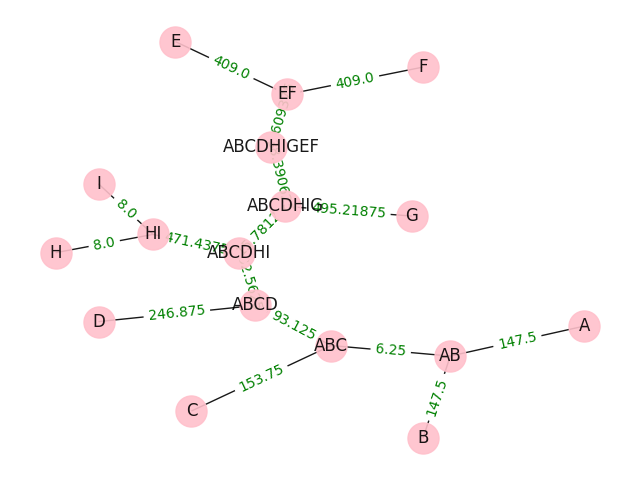
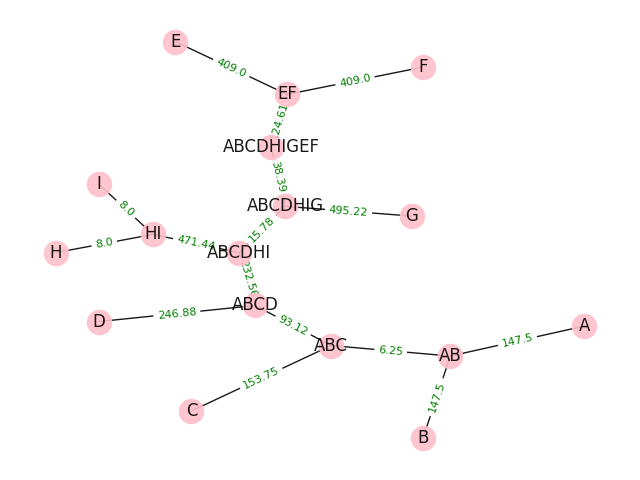
add additive phylogeny.py tree visualization

diff --git a/utils.py b/utils.py
@@ -36,18 +36,19 @@ def weighted_adjacency_list(filename: str, graph: nx.Graph) -> None:
 
 
 def save_result(graph: nx.Graph, path: str, mode: str = 'graph') -> None:
-    position = nx.spring_layout(graph, seed=1) if mode == 'graph' else graphviz_layout(graph, prog="twopi")
+    position = nx.spring_layout(graph, seed=11) if mode == 'graph' else graphviz_layout(graph, prog="twopi")
     labels = nx.get_edge_attributes(graph, 'weight')
 
     plt.figure()
     nx.draw(
         graph, position, edge_color='black', width=1, linewidths=1,
-        node_size=500, node_color='pink', alpha=0.9,
+        node_size=300, node_color='pink', alpha=0.9,
         labels={node: node for node in graph.nodes()}
     )
     nx.draw_networkx_edge_labels(
         graph, position,
         edge_labels=labels,
+        font_size=8,
         font_color='green'
     )
 

diff --git a/UPGMA.py b/UPGMA.py
@@ -71,8 +71,8 @@ class UPGMA:
         for key1, value1 in result.items():
             for key2, value2 in result.items():
                 if key1 != key2 and key1 + key2 in result.keys():
-                    graph.add_edge(key1, key1 + key2, weight=result[key1 + key2] - result[key1])
-                    graph.add_edge(key2, key1 + key2, weight=result[key1 + key2] - result[key2])
+                    graph.add_edge(key1, key1 + key2, weight=round(result[key1 + key2] - result[key1], 2))
+                    graph.add_edge(key2, key1 + key2, weight=round(result[key1 + key2] - result[key2], 2))
 
         return graph
 

diff --git a/additive phylogeny.py b/additive phylogeny.py
@@ -3,7 +3,7 @@ from utils import *
 
 class AdditivePhylogeny:
     def __init__(self):
-        self.new_nodes_start_index = 30
+        self.new_nodes_start_index = 50
 
     @staticmethod
     def compute_limb_length(d_ik: float, d_ij: float, d_jk: float) -> float:
@@ -101,4 +101,7 @@ if __name__ == "__main__":
 
         # show output
         weighted_adjacency_list(file, output)
+
+        # choose visualization
         save_result(output, f'{output_dir}additive phylogeny/graph_{file}.png')
+        save_result(output, f'{output_dir}additive phylogeny/tree_{file}.png', 'tree')
